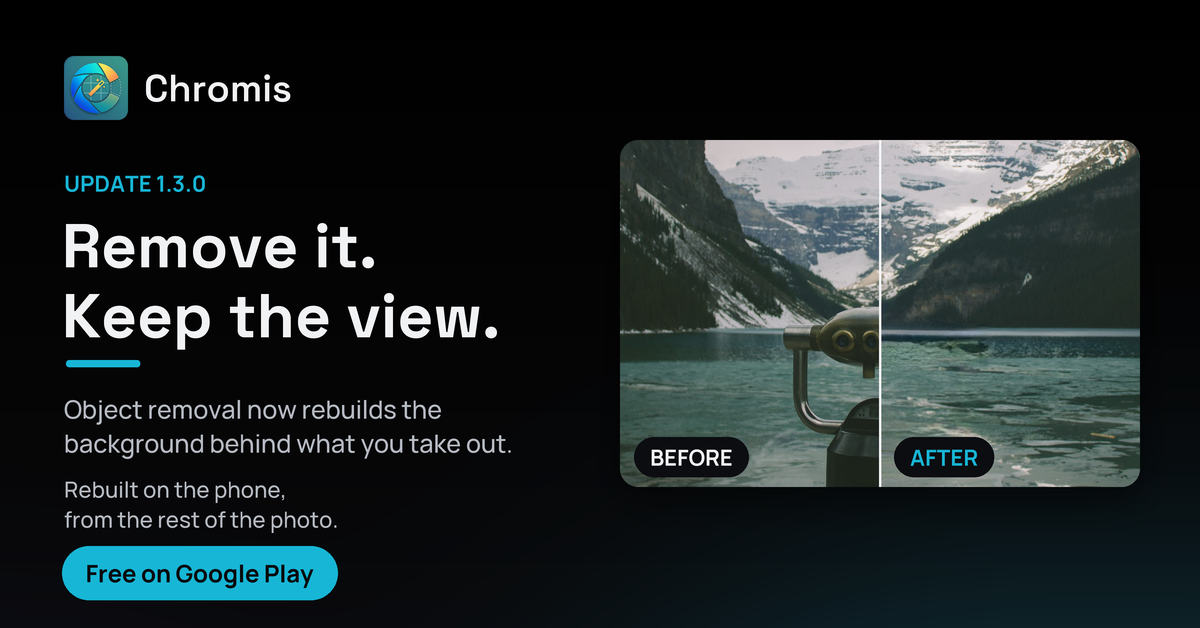
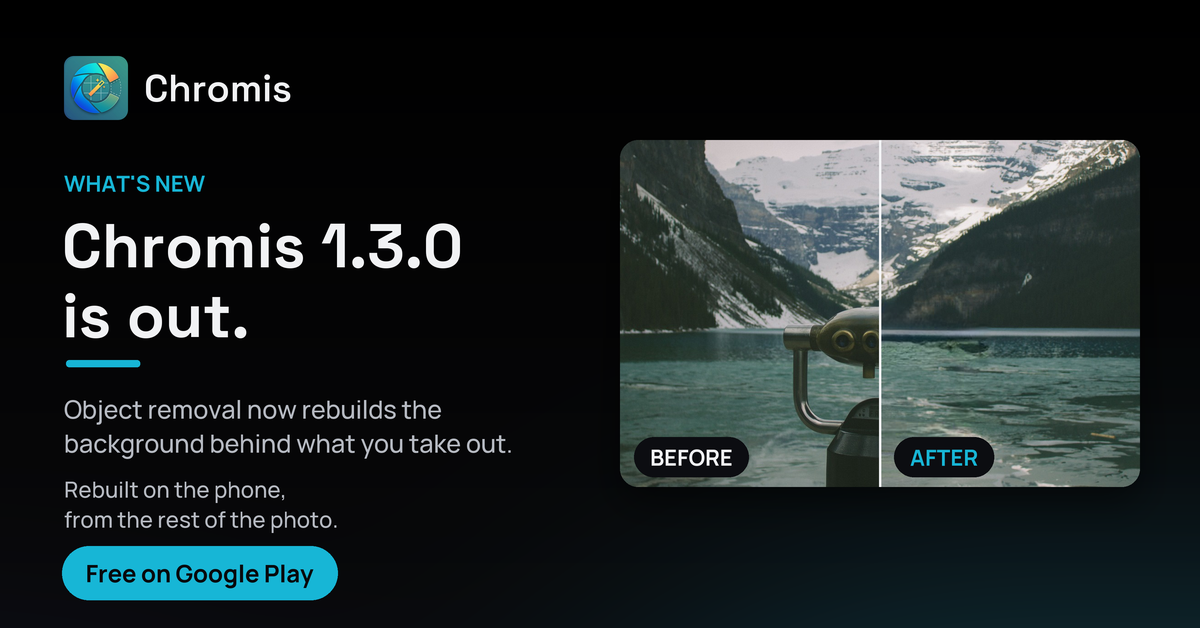
LinkedIn 1.3.0: announce first, explain second
The post led with the problem and arrived at the release three paragraphs
later, which is a good shape for an essay and the wrong one for an
announcement. It now opens with what shipped, numbers the four things in it,
says what it costs, says where the project is going, and links.

The graphics follow. "Remove it. Keep the view." was the story headline; at
82pt "Chromis 1.3.0 is out." is 797 of the 1056px it has, so the square says
that on ONE line and gives the recovered height back to the before/after,
which is now 552px a side instead of 528. The eyebrow carries "WHAT'S NEW".
The landscape column is only 540px wide, so there the same words break in two
rather than becoming different words.

Two things the rewrite had to be careful about, neither of them style:

**No hex codes in the body.** The draft said "Dark is #000000", and LinkedIn
parses that as a hashtag - it would have rendered as a link into a nonsense
feed. It says "true black rather than a dark grey" instead.

**No markdown.** LinkedIn renders none, so bold markers would have shipped as
literal asterisks. The numbering and the line breaks are the entire structure.

The claims are the ones the earlier verification pass left standing, unchanged:
still no tap count, still no flight-mode dare (object removal is behind the AI
ad gate at editor_screen.dart:3277), still nothing about the light theme or the
six languages, which are 1.2.0's. The Pro sentence is the store listing's own -
[…]

Changed region(s): [[0.0617, 0.3328, 0.4317, 0.5446], [0.0308, 0.2723, 0.185, 0.3025]]

diff --git a/tool/gen_release_promo.py b/tool/gen_release_promo.py
@@ -67,8 +67,13 @@ SOCIAL = ROOT / "assets/store/social"
 BEFORE = ROOT / "assets/store/samples/landscape.jpg"
 AFTER = SOCIAL / "fill-after.png"
 
-VERSION = "UPDATE 1.3.0"
-HEADLINE = ["Remove it.", "Keep the view."]
+# The square announces, then explains: at 82pt "Chromis 1.3.0 is out." is 797 of
+# the 1056px it has, so it takes one line and gives the height back to the
+# before/after. The landscape column is only 540px wide, so there it breaks in
+# two - the same words, not different ones, or the pair stops being one campaign.
+VERSION = "WHAT'S NEW"
+HEADLINE = "Chromis 1.3.0 is out."
+HEADLINE_WRAPPED = ["Chromis 1.3.0", "is out."]
 SUB = "Object removal now rebuilds the background behind what you take out."
 # Under the pair. It does NOT count taps and does NOT say "flight mode", and
 # both omissions are deliberate. Object removal sits behind the shared AI ad
@@ -211,10 +216,10 @@ def square() -> Image.Image:
     W = H = 1200
     canvas = np.asarray(background().convert("RGB")).copy()[: H * SS, : W * SS]
 
-    pair_w, gap = 528, 24
+    pair_w, gap = 552, 24
     pair_h = round(pair_w * (CROP[3] - CROP[1]) / (CROP[2] - CROP[0]))
     left = (W - (2 * pair_w + gap)) // 2
-    top = 596
+    top = 548
 
     for i, src in enumerate((BEFORE, AFTER)):
         art = premultiplied(panel(src, s(pair_w), s(pair_h)))
@@ -231,14 +236,13 @@ def square() -> Image.Image:
               font=font("assets/fonts/Manrope-Variable.ttf", 24, 700), fill=CYAN)
 
     hf = font("assets/fonts/SpaceGrotesk-Variable.ttf", 82, 700)
-    for i, line in enumerate(HEADLINE):
-        fits(draw, line, hf, s(W - 144), "headline line %d" % (i + 1))
-        draw.text((s(72), s(240 + i * 92)), line, font=hf, fill=TEXT_PRIMARY)
-    draw.rounded_rectangle((s(78), s(456), s(162), s(464)), radius=s(4), fill=CYAN)
+    fits(draw, HEADLINE, hf, s(W - 144), "headline")
+    draw.text((s(72), s(240)), HEADLINE, font=hf, fill=TEXT_PRIMARY)
+    draw.rounded_rectangle((s(78), s(370), s(162), s(378)), radius=s(4), fill=CYAN)
 
     sf = font("assets/fonts/Manrope-Variable.ttf", 31, 500)
     fits(draw, SUB, sf, s(W - 144), "subtitle")
-    draw.text((s(72), s(492)), SUB, font=sf, fill=TEXT_SECONDARY)
+    draw.text((s(72), s(406)), SUB, font=sf, fill=TEXT_SECONDARY)
 
     for i, text in enumerate((TAG_BEFORE, TAG_AFTER)):
         tag(draw, s(left + i * (pair_w + gap) + 16), s(top + pair_h - 56), text,
@@ -246,10 +250,14 @@ def square() -> Image.Image:
 
     cf = font("assets/fonts/Manrope-Variable.ttf", 27, 500)
     fits(draw, CAPTION, cf, s(W - 144), "caption")
-    draw.text((s(W // 2), s(top + pair_h + 44)), CAPTION, font=cf,
+    caption_y = top + pair_h + 44
+    draw.text((s(W // 2), s(caption_y)), CAPTION, font=cf,
               fill=TEXT_SECONDARY, anchor="mm")
 
-    chips(draw, s(1078), s(W // 2), s(W - 120))
+    # Centred in the space left under the caption: 96px above, 96px below.
+    chips_y = 1056
+    assert caption_y + 24 < chips_y, "the caption runs into the chip row"
+    chips(draw, s(chips_y), s(W // 2), s(W - 120))
 
     arr = canvas.copy()
     over(arr, premultiplied(layer), 0, 0)
@@ -286,7 +294,7 @@ def landscape() -> Image.Image:
               font=font("assets/fonts/Manrope-Variable.ttf", 22, 700), fill=CYAN)
 
     hf = font("assets/fonts/SpaceGrotesk-Variable.ttf", 62, 700)
-    for i, line in enumerate(HEADLINE):
+    for i, line in enumerate(HEADLINE_WRAPPED):
         fits(draw, line, hf, col, "landscape headline line %d" % (i + 1))
         draw.text((s(62), s(206 + i * 70)), line, font=hf, fill=TEXT_PRIMARY)
     draw.rounded_rectangle((s(66), s(360), s(140), s(367)), radius=s(3), fill=CYAN)

diff --git a/docs/release/linkedin-1.3.0.md b/docs/release/linkedin-1.3.0.md
@@ -29,33 +29,42 @@ LinkedIn suppresses reach on posts carrying an outbound link in the body.
 
 ## The post
 
-> "Remove object" used to cut a transparent hole in the photo.
+Announcement-led rather than a story: what shipped, what is in it, what it
+costs, where it is going. LinkedIn renders no markdown, so there is no bold and
+no bullet glyph in the text below - the numbering and the line breaks are the
+whole structure.
+
+> Chromis 1.3.0 is out on Google Play.
 >
-> People filed that as a bug. They were right — nobody taps "remove" and means "make a hole".
+> What's new:
 >
-> Taking something out of a photo is two questions. *Which pixels* was answered a long time ago. *What goes there* never was.
+> 1. Object removal now fills the background back in. The panel opens with a Fill in / Erase choice and Fill is the default. Two tiers sit behind that one word: a bundled generative model (MI-GAN, about 28 MB, MIT-licensed) runs first, and a pure-Dart content-aware fill catches what it can't. Which one ran is never shown — it was never a decision worth handing to anyone. The model is in the APK, so the fill needs no network and the photo has nowhere to go.
 >
-> Chromis 1.3.0 answers it. The panel now opens with a choice — Fill in or Erase — and Fill is the default, because "remove object" means a closed background to nearly everyone who taps it.
+> 2. Snapping. Drag a layer and it settles onto the nearest edge or centre — of every other visible layer, and of the canvas — with a guide showing what it caught. It measures in the layer's own frame rather than in bounding boxes, so two layers tilted to the same angle come out genuinely flush instead of corner-adjacent. It's a toggle in Adjust, on by default.
 >
-> Behind that one word sit two tiers. A bundled generative model runs first, and a pure-Dart content-aware fill catches what it can't. Which one ran is never shown, because it was never a decision worth handing to anyone — and having a floor is what lets Fill be offered at all, rather than only on the devices where the big model is happy.
+> 3. Placement sliders for a caption or a speech bubble, not just a photo. Scale, Rotation, Horizontal, Vertical. The canvas hit box IS the layer, so a caption pinched down by accident was smaller than a finger, and with a photo underneath there was nothing left to grab.
 >
-> The picture is the real output, not a mock-up. The head, the post and the handle of a lakeside tower viewer, taken out one at a time, and the background rebuilt from the rest of the photo.
+> 4. Pure black and pure white surfaces. Dark is true black rather than a dark grey, so an OLED pixel that should be off is off, and light is pure white so it stays readable outdoors.
 >
-> The model ships inside the app — MI-GAN, about 28 MB, MIT-licensed — so the fill needs no network and the photo has nowhere to go. That is the part I actually care about. "On-device AI" is easy to put in a store listing and hard for anyone to check; a model you can point at inside the APK is the version of it that can be checked.
+> The before/after above is real output rather than a mock-up: a lakeside tower viewer taken out, and the background rebuilt from the rest of the photo.
 >
-> Two more things in this release, both closing bad states rather than adding features.
+> Chromis is free and ad-supported, with one optional purchase that removes the ads and unlocks nothing else, because nothing else is locked. No account, on-device AI, nothing uploaded.
 >
-> Snapping. Drag a layer and it settles onto the nearest edge or centre — of every other visible layer, and of the canvas — with a guide showing what it caught. It measures in the layer's own frame rather than in bounding boxes, which is the only way two layers tilted to the same angle come out genuinely flush instead of merely corner-adjacent.
+> It's a slow project with a stubborn goal: to become the best photo editor on Google Play. 1.3.0 is one step of that.
 >
-> Placement sliders for a caption or a speech bubble, not just a photo. The canvas hit box IS the layer, so a caption pinched down by accident was smaller than a finger — and with a photo underneath it, there was nothing left to grab. A slider doesn't care how big the layer is.
->
-> Free and ad-supported on Google Play. Link in the first comment.
+> https://play.google.com/store/apps/details?id=tech.idct.chromis
 >
 > \#Android #Flutter #OnDeviceAI #PhotoEditing #ComputerVision
 
-**First comment:**
+**No hex codes in the body.** `#000000` reads as a hashtag on LinkedIn - it
+would render as a link and drag the post into a nonsense feed. The line says
+"true black" instead.
 
-> https://play.google.com/store/apps/details?id=tech.idct.chromis
+**A note on the link.** It is in the body because that is what was asked for.
+LinkedIn does throttle reach on posts carrying an outbound link; the usual
+workaround is to move it to the first comment and say "link in comments". If
+reach matters more than the click being one tap away, do that instead - the
+post reads fine with the last line removed.
 
 ---
 
